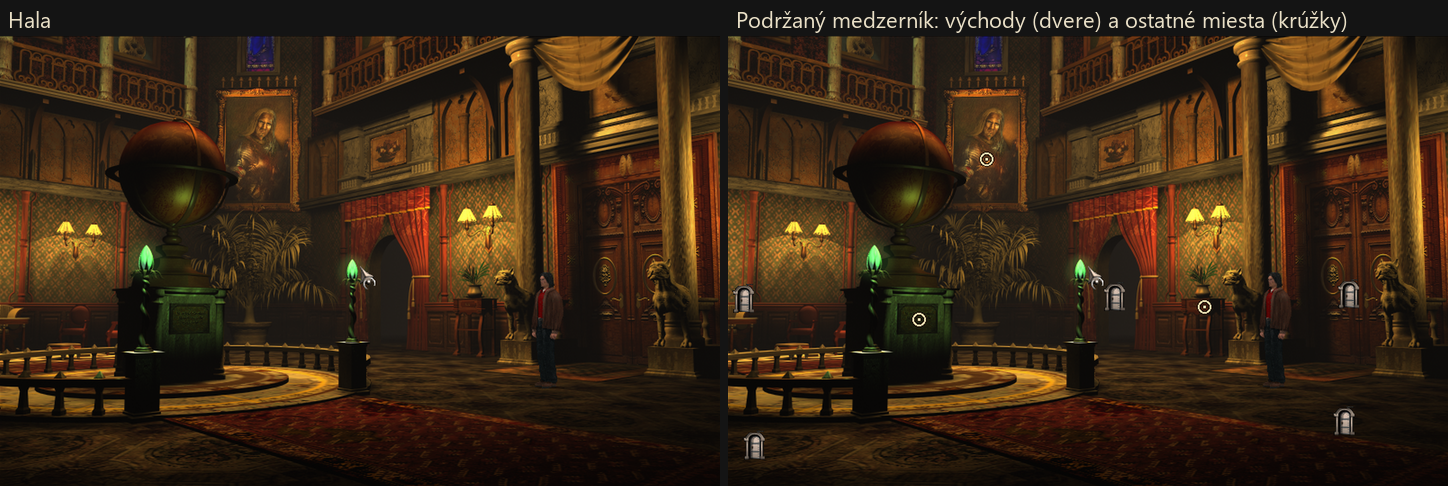
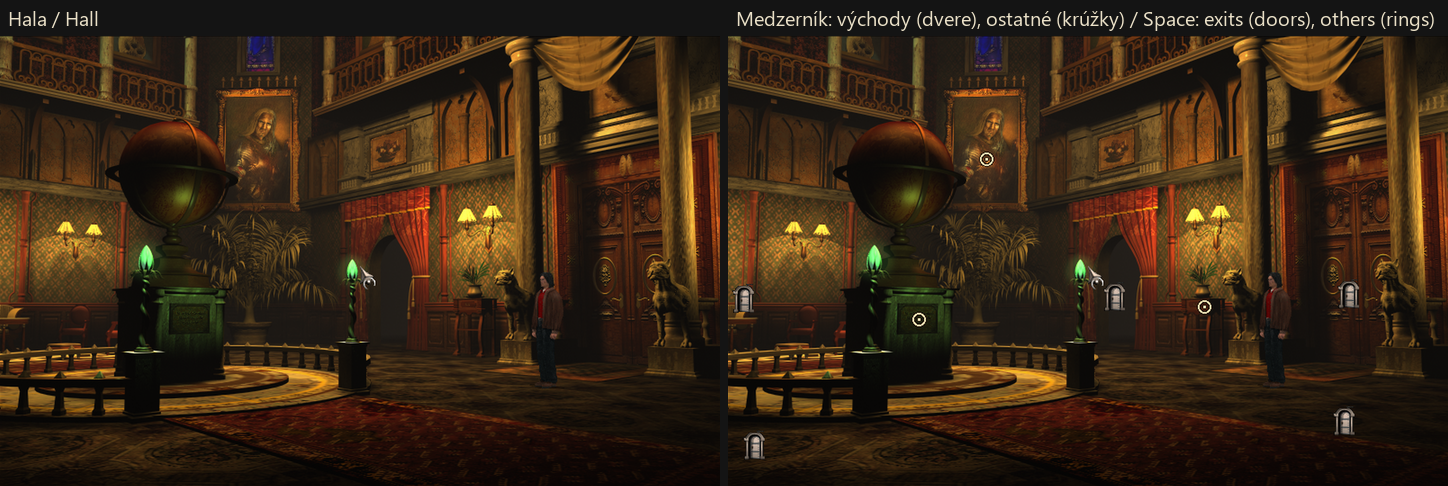
README dvojjazyčne (slovensky + anglicky po odsekoch), verzia hry na začiatku, dvojjazyčné popisky ukážok

Changed region(s): [[0.4972, 0.0309, 0.9945, 0.0617], [0.0, 0.0309, 0.0622, 0.0617]]

diff --git a/nastroje/test/readme_obrazky.py b/nastroje/test/readme_obrazky.py
@@ -5,7 +5,7 @@ from PIL import Image, ImageDraw, ImageFont
 
 P = os.path.join(os.path.dirname(__file__), "..", "..", "snimky")
 PROF, ZDROJ, VYST = os.path.join(P, "profily"), os.path.join(P, "readme", "zdroj"), os.path.join(P, "readme")
-PISMO = ImageFont.truetype(r"C:\Windows\Fonts\segoeui.ttf", 22)
+PISMO = ImageFont.truetype(r"C:\Windows\Fonts\segoeui.ttf", 20)
 
 def panel(obrazky, popisy, sirka):
     """Obrázky vedľa seba, každý zmenšený/zväčšený na danú šírku, nad každým popisok."""
@@ -27,19 +27,19 @@ def zv(im, box, k=2):
 a, b, c = (Image.open(os.path.join(PROF, n + ".png")) for n in ("bilinear", "postavy_bez", "postavy_fxaa"))
 box = (560, 400, 800, 700)
 panel([zv(a, box), zv(b, box), zv(c, box)],
-      ["Pôvodná hra", "Ostrejšie zväčšenie (lanczos-3)", "+ vyhladené postavy"], 480).save(os.path.join(VYST, "vyhladenie.png"))
+      ["Pôvodná hra / Original", "Ostrejšie / Sharper (lanczos-3)", "+ vyhladené postavy / smoothed characters"], 480).save(os.path.join(VYST, "vyhladenie.png"))
 panel([a.crop((240, 80, 1680, 1080)), c.crop((240, 80, 1680, 1080))],
-      ["Pôvodná hra", "S úpravami"], 720).save(os.path.join(VYST, "salon.png"))
+      ["Pôvodná hra / Original game", "S úpravami / With improvements"], 720).save(os.path.join(VYST, "salon.png"))
 # titulky sa nemenia
 panel([zv(b, (740, 1000, 1190, 1050)), zv(c, (740, 1000, 1190, 1050))],
-      ["Titulok bez vyhladenia", "Titulok pri vyhladení postáv (bez zmeny)"], 900).save(os.path.join(VYST, "titulky.png"))
+      ["Bez vyhladenia / No smoothing", "S vyhladením postáv – bez zmeny / With character smoothing – unchanged"], 900).save(os.path.join(VYST, "titulky.png"))
 
 # 2. hotspoty
 bez, s = (Image.open(os.path.join(ZDROJ, n + ".png")) for n in ("hala", "hala_hotspoty"))
 panel([bez.crop((240, 80, 1680, 980)), s.crop((240, 80, 1680, 980))],
-      ["Hala", "Podržaný medzerník: východy (dvere) a ostatné miesta (krúžky)"], 720).save(os.path.join(VYST, "hotspoty.png"))
+      ["Hala / Hall", "Medzerník: východy (dvere), ostatné (krúžky) / Space: exits (doors), others (rings)"], 720).save(os.path.join(VYST, "hotspoty.png"))
 
 # 3. filmy na celú šírku
 f0, f1 = (Image.open(os.path.join(ZDROJ, n + ".png")) for n in ("film_43", "film_sirka"))
-panel([f0, f1], ["Pôvodne: film v obraze 4:3", "S úpravou: film na celú šírku"], 720).save(os.path.join(VYST, "filmy.png"))
+panel([f0, f1], ["Pôvodne / Original: 4:3", "S úpravou / Improved: full width"], 720).save(os.path.join(VYST, "filmy.png"))
 print("hotovo", os.listdir(VYST))

diff --git a/README.md b/README.md
@@ -1,88 +1,122 @@
-# Black Mirror (Posel smrti) – vylepšenia hrania
+# Black Mirror (Posel smrti) – vylepšenia hrania / Quality of life fixes
 
-Úpravy pre pôvodnú hru Black Mirror z roku 2003 (verzia zo Steamu, engine AGDS). Pôvodné súbory hry sa nemenia: všetko robia doplnkové knižnice v priečinku hry. Každú úpravu (okrem zobrazenia) môžeš v `config.ini` zapnúť alebo vypnúť.
+> **Verzia hry / Game version:** Black Mirror I zo Steamu (App ID 292930, build 503461), česká verzia „Posel smrti“ 1.1, `agds.exe` z 8. 9. 2005 (671 744 B). Iné verzie neboli skúšané – doplnky si pri spustení overia súbor hry a v inej verzii svoje úpravy vypnú (celá obrazovka a pomer 4:3 cez dgVoodoo fungujú ďalej).
+>
+> *Black Mirror I from Steam (App ID 292930, build 503461), Czech version “Posel smrti” 1.1, `agds.exe` dated 8 Sep 2005 (671,744 bytes). Other versions were not tested – the plugins check the game file on startup and switch their changes off in a different version (full screen and 4:3 via dgVoodoo keep working).*
 
-## Zoznam vylepšení
+Úpravy pre pôvodnú hru Black Mirror z roku 2003 (engine AGDS). Pôvodné súbory hry sa nemenia: všetko robia doplnkové knižnice v priečinku hry. Každú úpravu (okrem zobrazenia) môžeš v `config.ini` zapnúť alebo vypnúť.
 
-### Obraz
-- **Celá obrazovka bez okraja a v pomere 4:3** – hra beží v okne bez rámu cez celú obrazovku (Alt+Tab bez prepínania režimu) a obraz má správny pomer strán s čiernymi pásmi po bokoch. Funguje aj pri zväčšení písma vo Windows nad 100 %.
-- **Filmy na celú šírku** – širokouhlé filmové scény sa roztiahnu na celú šírku obrazovky, bez pomeru 4:3 s čiernymi pásmi okolo.
-- **Ostrejší obraz** – zväčšenie obrazu 800×600 na tvoje rozlíšenie robí ostrejší filter (lanczos-3).
-- **Vyhladenie postáv** – zubaté hrany postáv sa vyhladia ešte pred zväčšením obrazu. Ponuky, titulky a texty sa nevyhladzujú, takže písmo ostáva čisté.
-- **Bez zvyškov na obrazovke** – po rýchlom pohybe myši už nezostávajú na obraze zvyšky nápisov a kurzora.
+*Improvements for the original 2003 game Black Mirror (AGDS engine). The original game files are not modified: everything is done by add-on libraries in the game folder. Every improvement (except the display) can be switched on or off in `config.ini`.*
 
-### Myš
-- **Plynulý kurzor** – kurzor sa prekresľuje 60-krát za sekundu namiesto 25. Hra pritom ide rovnakou rýchlosťou ako pôvodne.
-- **Citlivosť myši** – kurzor je predvolene pomalší (0.7 z pôvodnej rýchlosti), dá sa nastaviť.
-- **Koliesko myši listuje inventárom** – točením kolieska vyberáš predmety z inventára priamo na kurzor (dole = ďalší, hore = predchádzajúci), bez otvárania lišty dole.
+## Zoznam vylepšení / List of improvements
 
-### Klávesy
-| Kláves | Čo robí |
-|---|---|
-| **ESC** v hre | otvorí ponuku (ako klik na ozubené kolieska vpravo hore) |
-| **ESC** v ponuke | návrat do hry (zo Nastavení, Uložit/Nahrát hru a Tvůrci späť do hlavnej ponuky) |
-| **F5** | obrazovka Uložit hru (ESC vráti rovno do hry) |
-| **F8** | obrazovka Nahrát hru (ESC vráti rovno do hry) |
-| **medzerník** v hre | na 2 sekundy (ako Tab, pri držaní stále) ukáže všetky aktívne miesta v scéne: východy ikonou dverí, ostatné miesta krúžkom |
-| **medzerník** počas rozhovoru | preskočí jednu repliku (aj vetu rozprávača) |
-| **ESC** počas rozhovoru | preskočí repliku aj všetky animácie a hudbu po nej až po ďalšiu repliku |
-| **ESC** podržaný počas rozhovoru | preskočí celý rozhovor až po chvíľu, keď znova ovládaš hru |
-| **Tab** | na 2 sekundy ukáže východy (pôvodná funkcia hry) |
+### Obraz / Display
+- **Celá obrazovka bez okraja a v pomere 4:3** – hra beží v okne bez rámu cez celú obrazovku (Alt+Tab bez prepínania režimu) a obraz má správny pomer strán s čiernymi pásmi po bokoch. Funguje aj pri zväčšení písma vo Windows nad 100 %.<br>
+  *Borderless full screen in 4:3* – the game runs in a borderless window covering the whole screen (Alt+Tab without mode switching) with the correct aspect ratio and black bars on the sides. Works with Windows display scaling above 100 % too.
+- **Filmy na celú šírku** – širokouhlé filmové scény sa roztiahnu na celú šírku obrazovky, bez pomeru 4:3 s čiernymi pásmi okolo.<br>
+  *Full-width movies* – widescreen cutscene movies fill the whole screen width instead of sitting inside the 4:3 picture with black bars around them.
+- **Ostrejší obraz** – zväčšenie obrazu 800×600 na tvoje rozlíšenie robí ostrejší filter (lanczos-3).<br>
+  *Sharper picture* – the 800×600 picture is upscaled to your resolution with a sharper filter (lanczos-3).
+- **Vyhladenie postáv** – zubaté hrany postáv sa vyhladia ešte pred zväčšením obrazu. Ponuky, titulky a texty sa nevyhladzujú, takže písmo ostáva čisté.<br>
+  *Character smoothing* – jagged edges of characters are smoothed before the picture is upscaled. Menus, subtitles and texts are not smoothed, so the font stays clean.
+- **Bez zvyškov na obrazovke** – po rýchlom pohybe myši už nezostávajú na obraze zvyšky nápisov a kurzora.<br>
+  *No leftovers on screen* – fast mouse movement no longer leaves traces of labels and the cursor.
+
+### Myš / Mouse
+- **Plynulý kurzor** – kurzor sa prekresľuje 60-krát za sekundu namiesto 25. Hra pritom ide rovnakou rýchlosťou ako pôvodne.<br>
+  *Smooth cursor* – the cursor is redrawn 60 times per second instead of 25. The game itself runs at its original speed.
+- **Citlivosť myši** – kurzor je predvolene pomalší (0.7 z pôvodnej rýchlosti), dá sa nastaviť.<br>
+  *Mouse sensitivity* – the cursor is slower by default (0.7 of the original speed) and can be adjusted.
+- **Koliesko myši listuje inventárom** – točením kolieska vyberáš predmety z inventára priamo na kurzor (dole = ďalší, hore = predchádzajúci), bez otvárania lišty dole.<br>
+  *Mouse wheel cycles the inventory* – scrolling the wheel puts inventory items directly on the cursor (down = next, up = previous) without opening the bar at the bottom.
+
+### Klávesy / Keys
+| Kláves / Key | Čo robí | What it does |
+|---|---|---|
+| **ESC** v hre / in game | otvorí ponuku (ako klik na ozubené kolieska vpravo hore) | opens the menu (like clicking the cogwheels in the top right corner) |
+| **ESC** v ponuke / in menu | návrat do hry (zo Nastavení, Uložit/Nahrát hru a Tvůrci späť do hlavnej ponuky) | back to the game (from Options, Save/Load and Credits back to the main menu) |
+| **F5** | obrazovka Uložit hru (ESC vráti rovno do hry) | Save game screen (ESC returns straight to the game) |
+| **F8** | obrazovka Nahrát hru (ESC vráti rovno do hry) | Load game screen (ESC returns straight to the game) |
+| **medzerník / Space** v hre / in game | na 2 sekundy (ako Tab, pri držaní stále) ukáže všetky aktívne miesta v scéne: východy ikonou dverí, ostatné miesta krúžkom | shows all hotspots in the scene for 2 seconds (like Tab, permanently while held): exits with a door icon, everything else with a ring |
+| **medzerník / Space** v rozhovore / in dialogue | preskočí jednu repliku (aj vetu rozprávača) | skips one line (also a narrator sentence) |
+| **ESC** v rozhovore / in dialogue | preskočí repliku aj všetky animácie a hudbu po nej až po ďalšiu repliku | skips the line plus all animations and music after it, up to the next line |
+| **ESC** podržaný / held, v rozhovore / in dialogue | preskočí celý rozhovor až po chvíľu, keď znova ovládaš hru | skips the whole conversation until you are in control again |
+| **Tab** | na 2 sekundy ukáže východy (pôvodná funkcia hry) | shows the exits for 2 seconds (original game feature) |
 
 Počas rozhovorov už ostatné klávesy (napríklad písmená) repliky nepreskakujú – v pôvodnej hre to robil ktorýkoľvek kláves.
 
-### Nastavenia
-- **Nastavenia sa pamätajú** – titulky, hlasitosť reči, zvuku a hudby a gama korekcia platia stále, bez ohľadu na to, ktorú uloženú hru načítaš. Pôvodná hra ich pri každom spustení a načítaní pozície prepísala (napríklad titulky sa vždy vypli).
+*Other keys (letters, for example) no longer skip lines during dialogue – in the original game any key did.*
 
-## Ukážky pred a po
+### Nastavenia / Settings
+- **Nastavenia sa pamätajú** – titulky, hlasitosť reči, zvuku a hudby a gama korekcia platia stále, bez ohľadu na to, ktorú uloženú hru načítaš. Pôvodná hra ich pri každom spustení a načítaní pozície prepísala (napríklad titulky sa vždy vypli).<br>
+  *Settings are remembered* – subtitles, speech, sound and music volume and gamma stay as you set them regardless of the saved game you load. The original game overwrote them on every start and load (subtitles were always switched off, for example).
 
-### Vyhladenie postáv
+## Ukážky pred a po / Before and after
+
+### Vyhladenie postáv / Character smoothing
 Výrez zväčšený 2×: pôvodná hra (rozmazané zväčšenie so zubatými hranami), ostrejšie zväčšenie a k nemu vyhladené hrany postáv.
 
-![Vyhladenie postáv](snimky/readme/vyhladenie.png)
+*Detail enlarged 2×: the original game (blurry upscaling with jagged edges), sharper upscaling, and sharper upscaling with smoothed character edges.*
+
+![Vyhladenie postáv / Character smoothing](snimky/readme/vyhladenie.png)
 
 Celá scéna – pôvodná hra a hra s úpravami (s úpravami sú aj titulky zapnuté natrvalo):
 
-![Salón pred a po](snimky/readme/salon.png)
+*The whole scene – original game and the game with improvements (with improvements the subtitles also stay switched on):*
+
+![Salón pred a po / Drawing room before and after](snimky/readme/salon.png)
 
 Vyhladzujú sa len postavy v scéne. Titulky, názvy predmetov a ponuky ostávajú presne také ako bez vyhladenia (overené pixel po pixeli, hlavná ponuka je s vyhladením aj bez neho úplne rovnaká):
 
-![Titulky bez zmeny](snimky/readme/titulky.png)
+*Only the characters in the scene are smoothed. Subtitles, object names and menus stay exactly as they are without smoothing (checked pixel by pixel; the main menu is identical with and without smoothing):*
 
-### Aktívne miesta (medzerník)
-![Hotspoty](snimky/readme/hotspoty.png)
+![Titulky bez zmeny / Subtitles unchanged](snimky/readme/titulky.png)
 
-### Filmy na celú šírku
-![Filmy](snimky/readme/filmy.png)
+### Aktívne miesta (medzerník) / Hotspots (Space)
+![Aktívne miesta / Hotspots](snimky/readme/hotspoty.png)
 
-## Inštalácia
-1. Rozbaľ archív kamkoľvek a spusti `install.bat`. Hru nájde sám v Steame (aj v ďalších knižniciach Steamu na iných diskoch), prípadne v priečinku nad sebou, ak archív rozbalíš priamo do priečinka hry.
-   Ak hru nenájde (napríklad verzia mimo Steamu), pretiahni priečinok hry myšou na `install.bat` alebo zadaj cestu: `install.bat "C:\Hry\Black Mirror"`.
-2. Spusti hru ako zvyčajne.
+### Filmy na celú šírku / Full-width movies
+![Filmy / Movies](snimky/readme/filmy.png)
+
+## Inštalácia / Installation
+1. Rozbaľ archív kamkoľvek a spusti `install.bat`. Hru nájde sám v Steame (aj v ďalších knižniciach Steamu na iných diskoch), prípadne v priečinku nad sebou, ak archív rozbalíš priamo do priečinka hry. Ak hru nenájde (napríklad verzia mimo Steamu), pretiahni priečinok hry myšou na `install.bat` alebo zadaj cestu: `install.bat "C:\Hry\Black Mirror"`.<br>
+   *Extract the archive anywhere and run `install.bat`. It finds the game in Steam by itself (including other Steam libraries on other drives), or in the folder above it if you extract the archive directly into the game folder. If it cannot find the game (a non-Steam version, for example), drag the game folder onto `install.bat` or pass the path: `install.bat "C:\Games\Black Mirror"`.*
+2. Spusti hru ako zvyčajne.<br>
+   *Start the game as usual.*
 
 Inštalácia skopíruje do priečinka hry knižnice `DDraw.dll`, `bm_core.dll`, `dgddraw.dll` a `D3DImm.dll` (dgVoodoo2 2.87.6), nastavenia `dgVoodoo.conf` a `config.ini` a doplní dve voľby do `agds.cfg`. Existujúci `config.ini` neprepíše, takže tvoje nastavenia ostanú.
 
+*The installer copies the libraries `DDraw.dll`, `bm_core.dll`, `dgddraw.dll` and `D3DImm.dll` (dgVoodoo2 2.87.6) and the settings files `dgVoodoo.conf` and `config.ini` into the game folder and adds two options to `agds.cfg`. An existing `config.ini` is not overwritten, so your settings are kept.*
+
 **Odinštalovanie:** `uninstall.bat` súbory zmaže a vráti hru do pôvodného stavu.
 
-## Nastavenia (`config.ini` v priečinku hry)
-| Sekcia, kľúč | Predvolené | Význam |
-|---|---|---|
-| `[Movies] FullWidth` | 1 | filmy na celú šírku (0 = v obraze 4:3) |
-| `[Cursor] Fps` | 60 | prekresľovanie kurzora za sekundu (0 = ako pôvodná hra) |
-| `[Cursor] Sensitivity` | 0.7 | citlivosť myši 0.1 – 1.0 (1.0 = pôvodná rýchlosť) |
-| `[Controls] EscapeMenu` | 1 | ESC otvorí ponuku |
-| `[Controls] SpaceHotspots` | 1 | medzerník ukáže aktívne miesta |
-| `[Controls] HoldToSkip` | 1 | preskakovanie rozhovorov cez ESC a medzerník |
-| `[Controls] SaveLoadKeys` | 1 | F5 = uložiť, F8 = nahrať |
-| `[Controls] WheelInventory` | 1 | koliesko myši listuje inventárom |
-| `[Video] Smoothing` | 1 | vyhladenie: 1 = postavy, 2 = celá scéna, 0 = vypnuté |
-| `[Video] SmoothingThreshold` | 25 | citlivosť vyhladenia (vyššie číslo = menej vyhladených hrán) |
-| `[Settings] Remember` | 1 | pamätať nastavenia bez ohľadu na uloženú hru |
+***Uninstall:** `uninstall.bat` removes the files and restores the game to its original state.*
+
+## Nastavenia / Settings (`config.ini` v priečinku hry / in the game folder)
+| Sekcia, kľúč / Section, key | Predvolené / Default | Význam | Meaning |
+|---|---|---|---|
+| `[Movies] FullWidth` | 1 | filmy na celú šírku (0 = v obraze 4:3) | full-width movies (0 = inside the 4:3 picture) |
+| `[Cursor] Fps` | 60 | prekresľovanie kurzora za sekundu (0 = ako pôvodná hra) | cursor redraws per second (0 = like the original game) |
+| `[Cursor] Sensitivity` | 0.7 | citlivosť myši 0.1 – 1.0 (1.0 = pôvodná rýchlosť) | mouse sensitivity 0.1 – 1.0 (1.0 = original speed) |
+| `[Controls] EscapeMenu` | 1 | ESC otvorí ponuku | ESC opens the menu |
+| `[Controls] SpaceHotspots` | 1 | medzerník ukáže aktívne miesta | Space shows hotspots |
+| `[Controls] HoldToSkip` | 1 | preskakovanie rozhovorov cez ESC a medzerník | skipping dialogue with ESC and Space |
+| `[Controls] SaveLoadKeys` | 1 | F5 = uložiť, F8 = nahrať | F5 = save, F8 = load |
+| `[Controls] WheelInventory` | 1 | koliesko myši listuje inventárom | mouse wheel cycles the inventory |
+| `[Video] Smoothing` | 1 | vyhladenie: 1 = postavy, 2 = celá scéna, 0 = vypnuté | smoothing: 1 = characters, 2 = whole scene, 0 = off |
+| `[Video] SmoothingThreshold` | 25 | citlivosť vyhladenia (vyššie číslo = menej vyhladených hrán) | smoothing sensitivity (higher = fewer edges smoothed) |
+| `[Settings] Remember` | 1 | pamätať nastavenia bez ohľadu na uloženú hru | remember settings regardless of the saved game |
 
 Hodnoty zmenené v nastaveniach hry si doplnok zapisuje do sekcie `[Remembered]`. Zmeny v `config.ini` platia po reštarte hry. Ostrosť zväčšenia sa mení v `dgVoodoo.conf` (`Resampling = lanczos-3`, mäkšie `bicubic` alebo pôvodné `bilinear`).
 
-## Použité nástroje
+*Values changed in the game's options are stored by the plugin in the `[Remembered]` section. Changes in `config.ini` take effect after restarting the game. Upscaling sharpness is set in `dgVoodoo.conf` (`Resampling = lanczos-3`, softer `bicubic` or the original `bilinear`).*
+
+## Použité nástroje / Credits
 Preklad DirectDraw na Direct3D 11 robí [dgVoodoo2](https://github.com/dege-diosg/dgVoodoo2) 2.87.6 od Dégé (freeware), ktorý je súčasťou balíka.
 
-## Pre vývojárov
-Technický popis, adresy v hre, merania a postupy testov sú v [DOKUMENTACIA.md](DOKUMENTACIA.md). Doplnky sa zostavujú cez `build_plugin.bat`; zdroj nového doplnku je `doplnok/bm_qol.c` a pôvodný sa skladá cez `nastroje/zostav_dll.py`.
+*DirectDraw is translated to Direct3D 11 by [dgVoodoo2](https://github.com/dege-diosg/dgVoodoo2) 2.87.6 by Dégé (freeware), included in the package.*
+
+## Pre vývojárov / For developers
+Technický popis, adresy v hre, merania a postupy testov sú v [DOKUMENTACIA.md](DOKUMENTACIA.md) (po slovensky). Doplnky sa zostavujú cez `build_plugin.bat`; zdroj nového doplnku je `doplnok/bm_qol.c` a pôvodný sa skladá cez `nastroje/zostav_dll.py`.
+
+*The technical description, game addresses, measurements and test procedures are in [DOKUMENTACIA.md](DOKUMENTACIA.md) (in Slovak). The plugins are built with `build_plugin.bat`; the source of the new plugin is `doplnok/bm_qol.c` and the original one is assembled by `nastroje/zostav_dll.py`.*
